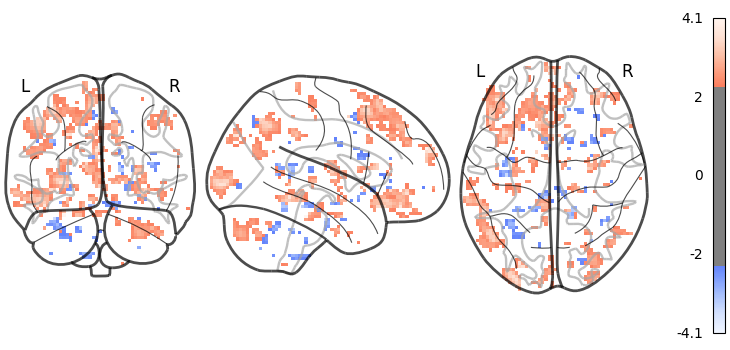
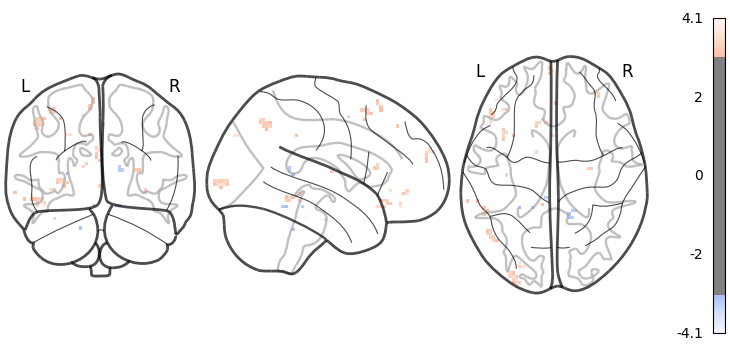
atlasreader plots + plots w. 0.001 pval

diff --git a/src/second_level.py b/src/second_level.py
@@ -6,22 +6,23 @@ from nilearn.glm.second_level import SecondLevelModel
 from nilearn import plotting
 from nilearn.plotting import plot_stat_map
 from scipy.stats import norm
+import atlasreader 
 
-from utils import load_all_flms
+from utils import load_all_flms, remove_flms
 
 def second_level(flms):
     '''
     Perform second level analysis on the data using already created first level models
     '''
-    # init second level model with smoothing parameter
-    second_level_mdl = SecondLevelModel(smoothing_fwhm=8.0)
+    # init second level model with smoothing parameter (njobs = -2 to use all cores EXCEPT 1 for faster compute)
+    second_level_mdl = SecondLevelModel(smoothing_fwhm=8.0, n_jobs=-2)
 
     # fit second level model
     second_level_mdl = second_level_mdl.fit(flms)
 
     return second_level_mdl
 
-def plot_wholebrain_contrasts(second_level_mdl, contrast = "positive_img - negative_img", pval = 0.01, save_path = None):
+def plot_wholebrain_contrasts(second_level_mdl, contrast = "positive_img - negative_img", pval = 0.001, save_path = None):
     '''
     Plot wholebrain contrasts for a group with a second level model
 
@@ -49,27 +50,45 @@ def plot_wholebrain_contrasts(second_level_mdl, contrast = "positive_img - negat
         surface_plot.savefig(save_path / "surface_plot.png")
         deep_plot.savefig(save_path / "deep_plot.png")
     
-    return surface_plot, deep_plot
+    return surface_plot, deep_plot, zmap_g
+
+def get_atlas(stat_map, save_path, pval:int=0.001): 
+    '''
+    Use atlas reader to extract coordinates 
+
+    Args
+        stat_map: fmri image statistical map (e.g., zmap_g)
+    '''
+    threshold = norm.isf(pval)
+
+    atlasreader.create_output(stat_map, voxel_thresh=threshold, cluster_extent=10, outdir=save_path)
+    
 
 def main(): 
     # define paths 
     path = pathlib.Path(__file__)
     data_path = path.parents[1] / "data" / "all_flms"
 
-    # load all first level models
-    flms_dict = load_all_flms(data_path)
+    # load all first level models (excludes subject 0119 based on sanity check)
+    flms_dict = load_all_flms(data_path, exclude_subjects=["0119"])
 
-    # get flms from dict
+    # get flms only 
     flms = [val for val in flms_dict.values()]
 
     # perform second level analysis
+    print("[INFO:] Making second level model ...")
     second_level_mdl = second_level(flms)
 
     # save path
     results_path = path.parents[1] / "results"
 
     # plot wholebrain contrasts
-    surface_plot, deep_plot = plot_wholebrain_contrasts(second_level_mdl,  save_path = results_path)
+    print("[INFO:] Plotting results ...")
+    surface_plot, deep_plot, zmap_g = plot_wholebrain_contrasts(second_level_mdl, pval=0.001, save_path = results_path)
 
+    # read atlas 
+    print("[INFO:] Finding clusters ...")
+    atlas = get_atlas(zmap_g, results_path / "atlas_reader", pval=0.001)
+    
 if __name__ == "__main__":
     main()
